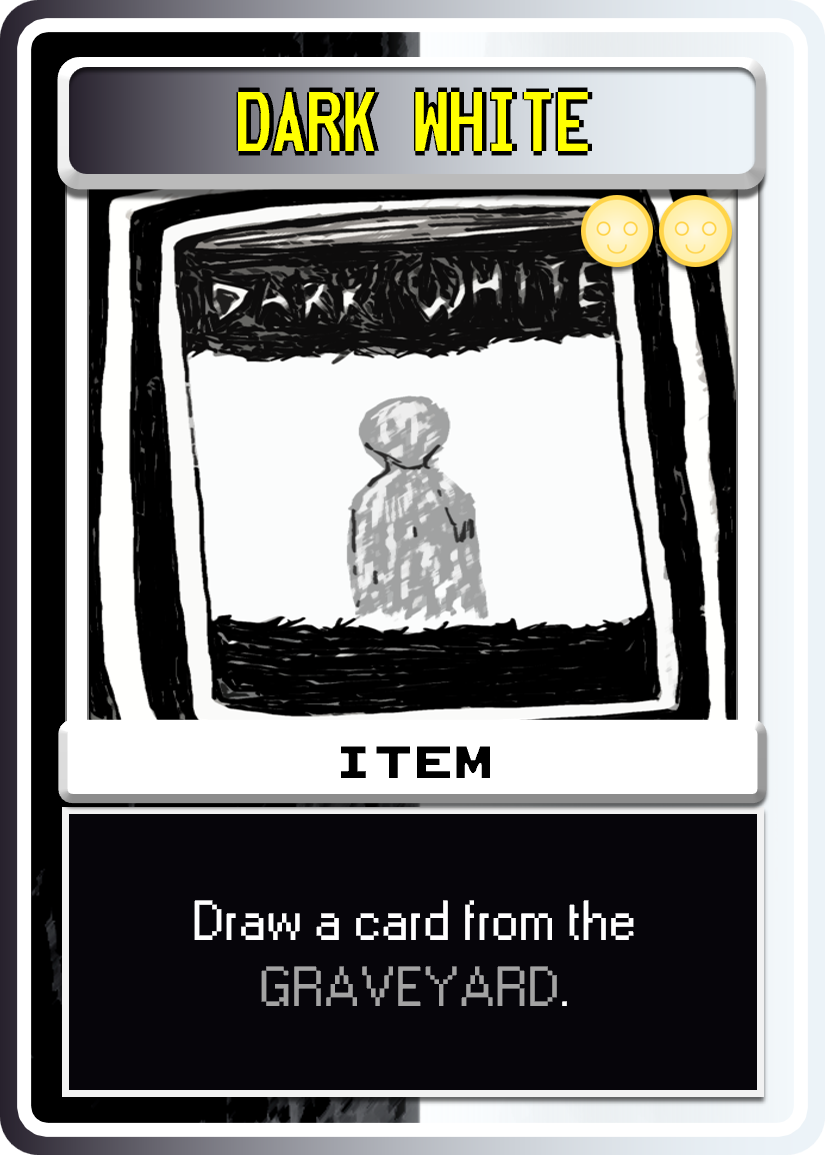
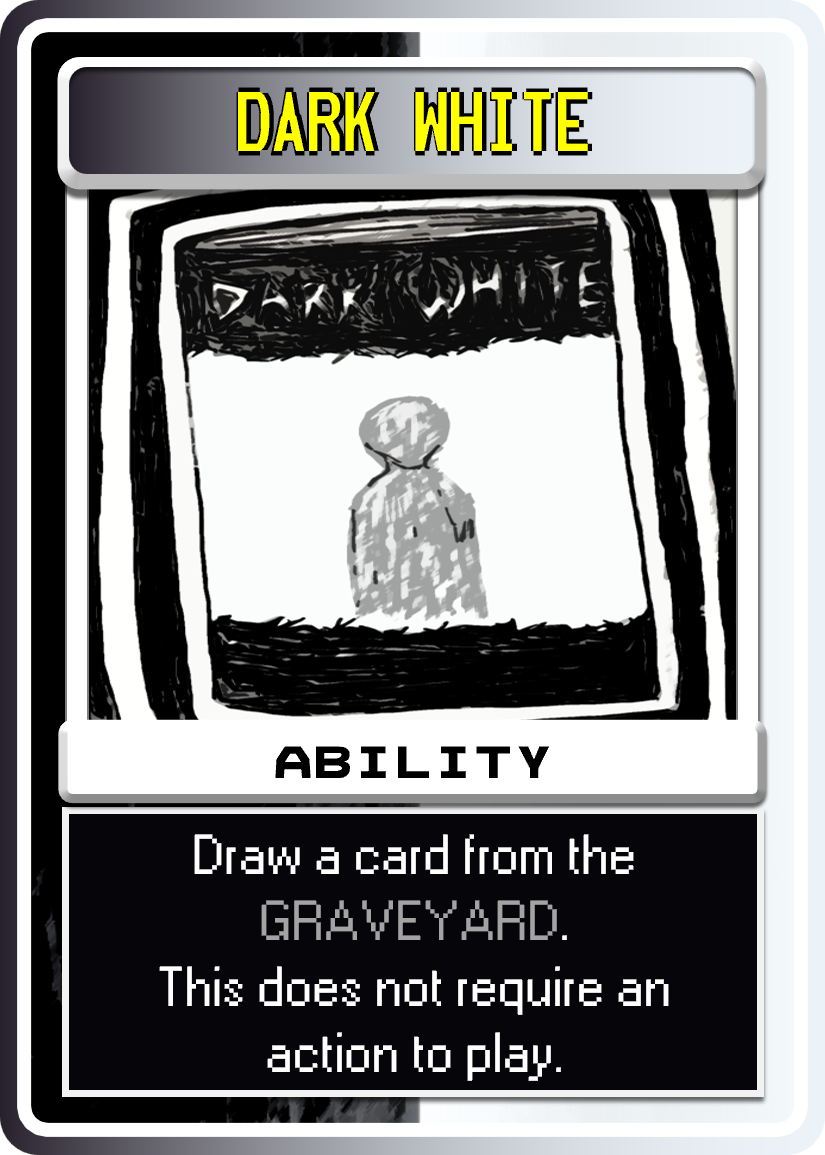
Sudden Death 0.0.6f: Yobbin' Time!

diff --git a/cardList.js b/cardList.js
@@ -5,6 +5,7 @@ const cardList = new Array(
   ["bomber_games", "Bomber Games", "Ability", "Moneybags"],
   ["calling_card", "Calling Card", "Ability", "Aoi Manto"],
   ["danse_macabre", "Danse Macabre", "Ability", "Hitzel"],
+  ["dark_white", "Dark White", "Ability", "Riley"],
   ["death_bloom", "Death Bloom", "Ability", "Helen"],
   ["desire_fire", "Desire Fire", "Ability", "Vivian"],
   ["devil_slayer", "Devil Slayer", "Ability", "Zormaku"],
@@ -16,6 +17,7 @@ const cardList = new Array(
   ["imitation_ooze", "Imitation Ooze", "Ability", "Phobos"],
   ["immortal_body", "Immortal Body", "Ability", "Thysia"],
   ["investigate", "Investigate", "Ability", "Detective Dark"],
+  ["jabberwocky", "Jabberwocky", "Ability", "Knell"],
   ["life_swap", "Life Swap", "Ability", "Isabelle"],
   ["mass_pickle_doomsday_ray", "Mass Pickle Doomsday Ray", "Ability", "Geevil"],
   ["midas_touch", "Midas Touch", "Ability", "Quincy"],
@@ -28,9 +30,10 @@ const cardList = new Array(
   ["vending_machine", "Vending Machine", "Ability", "Miedo"],
   ["viridescent_calling", "Viridescent Calling", "Ability", "Bishop"],
   ["white_noise_complex", "White Noise Complex", "Ability", "Glifa"],
+  ["xenocide", "Xenocide", "Ability", "Sniffer"],
+  ["yobbin_time", "Yobbin' Time!", "Ability", "Woozy"],
   // Deck Cards
   ["10_10_mediocrity", "10/10 Mediocrity", "Event", "Paper"],
-  ["abnormal_trick", "Abnormal Trick", "Event", ""],
   ["afterschool_cult_meeting", "Afterschool Cult Meeting", "Event", ""],
   ["anaheim_pepper", "Anaheim Pepper", "Event", "Pepper"],
   ["anxiety_gradient", "Anxiety Gradient", "Event", ""],
@@ -171,7 +174,6 @@ const cardList = new Array(
   ["capsaicin_core", "Capsaicin Core", "Item", ""],
   ["chatty", "Chatty", "Item", ""],
   ["clown_cola", "Clown Cola", "Item", ""],
-  ["dark_white", "Dark White", "Item", ""],
   ["detached_hand", "Detached Hand", "Item", ""],
   ["eidolon_elixir", "Eidolon Elixir", "Item", ""],
   ["flesh_fungus", "Flesh Fungus", "Item", ""],
